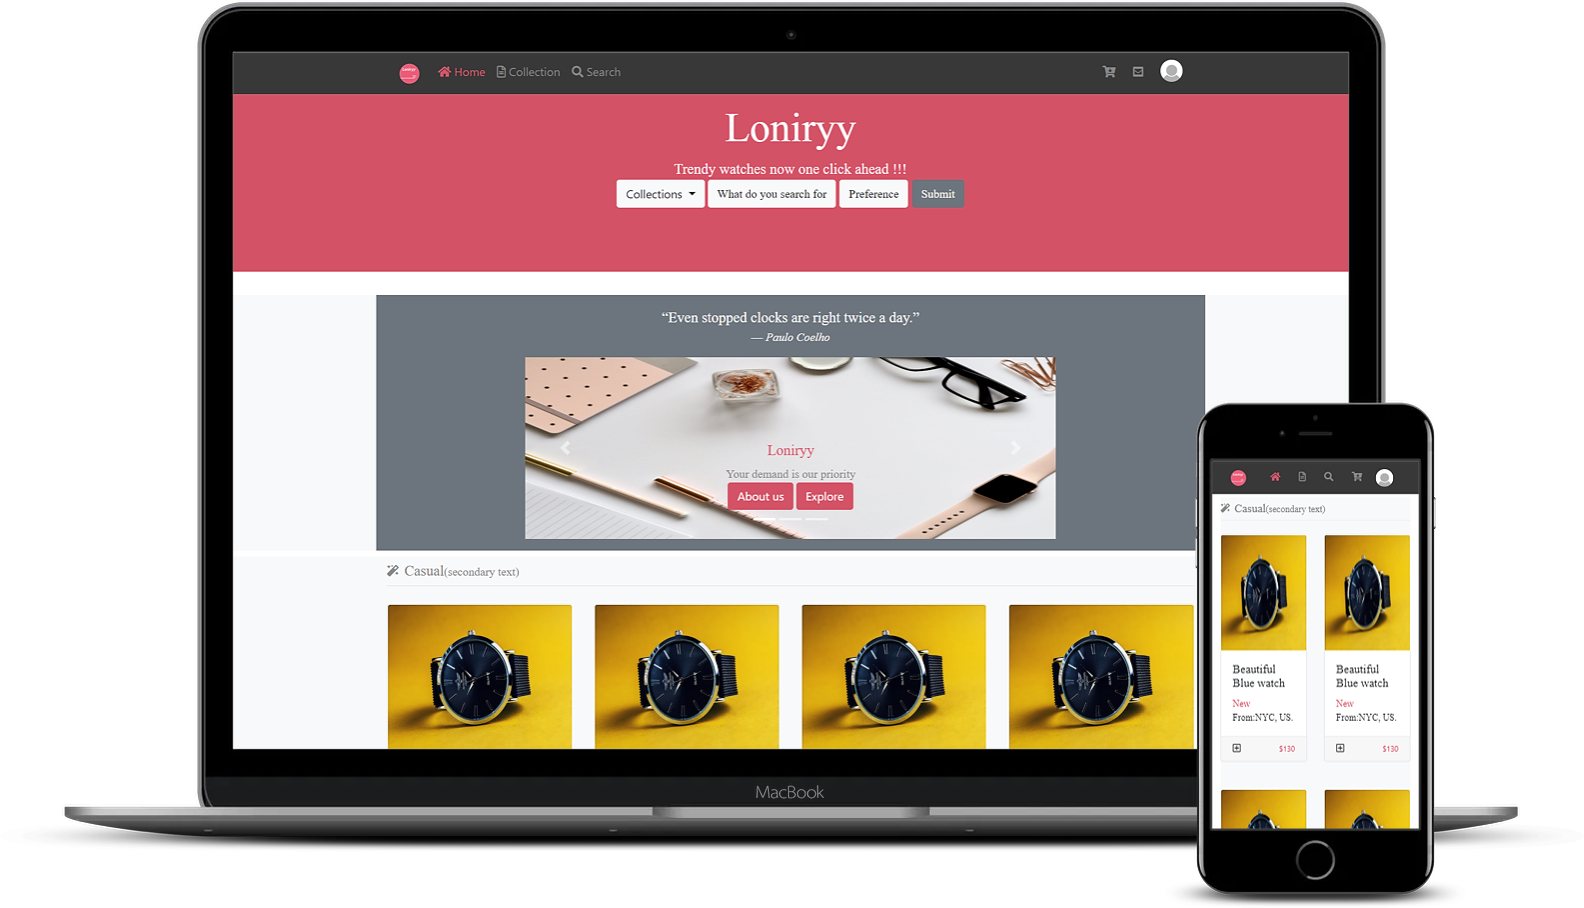
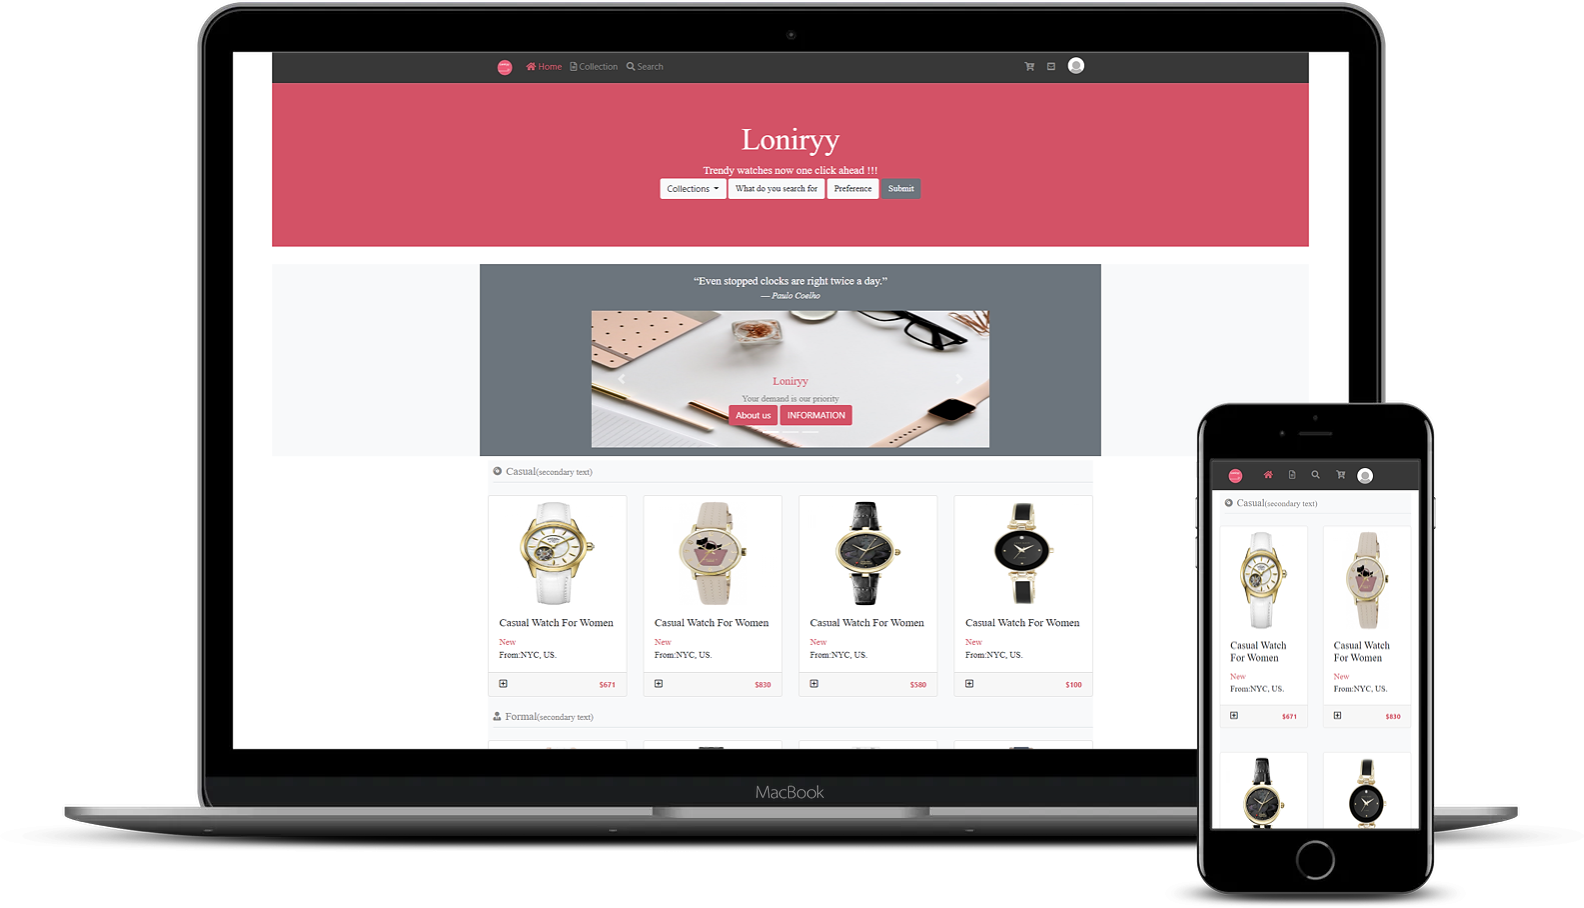
Solved the linters.

Changed region(s): [[0.1237, 0.0617, 0.8971, 0.8326], [0.7734, 0.8326, 0.8971, 0.9251]]

diff --git a/index.html b/index.html
@@ -101,11 +101,11 @@
               
     </header>
 
-    <man>         
+    <main>         
         <section id="invisible" class="navbar navbar-expand navbar-expand-sm  col-12 pt-5 ">         
         </section>
 
-        <section id="show-case" class="d-none d-sm-block ">       
+        <section id="show-case" class="d-none d-sm-block">       
             <div class=" jumbotron jumbotron-fluid text-white">
                     <div class="container text-center p-2">
                         <article>                            
@@ -211,7 +211,7 @@
                             <div class="card my-4 transition">
                                 <img class="card-img-top" src="assets/img/Casual-1.jpg" alt="Card image cap">
                                 <div class="card-body">
-                                    <h5 class="card-title">Rotary watch LS90513</h5>
+                                    <h5 class="card-title">Casual Watch For Women</h5>
                                     <p class="card-text pink-text">New</p>
                                     <p class="card-text text-grey">From:NYC, US.</p>
                                 </div>
@@ -225,7 +225,7 @@
                                 <div class="card my-4 transition">
                                     <img class="card-img-top" src="assets/img/Casual-2.jpg" alt="Card image cap">
                                     <div class="card-body">
-                                        <h5 class="card-title">Radley Border watch RY2288</h5>
+                                        <h5 class="card-title">Casual Watch For Women</h5>
                                         <p class="card-text pink-text">New</p>
                                         <p class="card-text text-grey">From:NYC, US.</p>
                                     </div>
@@ -239,7 +239,7 @@
                                 <div class="card my-4 transition">
                                     <img class="card-img-top" src="assets/img/Casual-3.jpg" alt="Card image cap">
                                     <div class="card-body">
-                                        <h5 class="card-title">Tissot Black T0064073605300</h5>
+                                        <h5 class="card-title">Casual Watch For Women</h5>
                                         <p class="card-text pink-text">New</p>
                                         <p class="card-text text-grey">From:NYC, US.</p>
                                     </div>
@@ -253,7 +253,7 @@
                                 <div class="card my-4 transition">
                                     <img class="card-img-top" src="assets/img/Casual-4.jpg" alt="Card image cap">
                                     <div class="card-body">
-                                        <h5 class="card-title">Anne Klein watch AK / 1980BKGB</h5>
+                                        <h5 class="card-title">Casual Watch For Women</h5>
                                         <p class="card-text pink-text">New</p>
                                         <p class="card-text text-grey">From:NYC, US.</p>
                                     </div>
@@ -276,7 +276,7 @@
                             <div class="card my-4 transition">
                                 <img class="card-img-top" src="assets/img/Formal-1.jpg" alt="Card image cap">
                                 <div class="card-body">
-                                    <h5 class="card-title">Anne Klein Watch AK / N1610WTRG</h5>
+                                    <h5 class="card-title">Formal Watch For Women</h5>
                                     <p class="card-text pink-text">New</p>
                                     <p class="card-text text-grey">From:NYC, US.</p>
                                 </div>
@@ -290,7 +290,7 @@
                                 <div class="card my-4 transition">
                                     <img class="card-img-top" src="assets/img/Formal-2.jpg" alt="Card image cap">
                                     <div class="card-body">
-                                        <h5 class="card-title">Anne Klein AK / N3344NVRG</h5>
+                                        <h5 class="card-title">Formal Watch For Women</h5>
                                         <p class="card-text pink-text">New</p>
                                         <p class="card-text text-grey">From:NYC, US.</p>
                                     </div>
@@ -304,7 +304,7 @@
                                 <div class="card my-4 transition">
                                     <img class="card-img-top" src="assets/img/Formal-3.jpg" alt="Card image cap">
                                     <div class="card-body">
-                                        <h5 class="card-title">Gc watch AK / Y65001L1MF</h5>
+                                        <h5 class="card-title">Formal Watch For Women</h5>
                                         <p class="card-text pink-text">New</p>
                                         <p class="card-text text-grey">From:NYC, US.</p>
                                     </div>
@@ -318,7 +318,7 @@
                                 <div class="card my-4 transition">
                                     <img class="card-img-top" src="assets/img/Formal-4.jpg" alt="Card image cap">
                                     <div class="card-body">
-                                        <h5 class="card-title">Anne Klein AK / 3612BKRG</h5>
+                                        <h5 class="card-title">Formal Watch For Women</h5>
                                         <p class="card-text pink-text">New</p>
                                         <p class="card-text text-grey">From:NYC, US.</p>
                                     </div>
@@ -341,7 +341,7 @@
                             <div class="card my-4 transition">
                                 <img class="card-img-top" src="assets/img/Trendy-1.jpg" alt="Card image cap">
                                 <div class="card-body">
-                                    <h5 class="card-title">Olivia Burton Rose OBGSET140</h5>
+                                    <h5 class="card-title">Trendy Watch For Women</h5>
                                     <p class="card-text pink-text">New</p>
                                     <p class="card-text text-grey">From:NYC, US.</p>
                                 </div>
@@ -355,7 +355,7 @@
                                 <div class="card my-4 transition">
                                     <img class="card-img-top" src="assets/img/Trendy-2.jpg" alt="Card image cap">
                                     <div class="card-body">
-                                        <h5 class="card-title">Gucci G-Timeless Black YA1264034</h5>
+                                        <h5 class="card-title">Trendy Watch For Women</h5>
                                         <p class="card-text pink-text">New</p>
                                         <p class="card-text text-grey">From:NYC, US.</p>
                                     </div>
@@ -369,7 +369,7 @@
                                 <div class="card my-4 transition">
                                     <img class="card-img-top" src="assets/img/Trendy-3.jpg" alt="Card image cap">
                                     <div class="card-body">
-                                        <h5 class="card-title">Anne Klein Rose AK / N2854RGST</h5>
+                                        <h5 class="card-title">Trendy Watch For Women</h5>
                                         <p class="card-text pink-text">New</p>
                                         <p class="card-text text-grey">From:NYC, US.</p>
                                     </div>
@@ -383,7 +383,7 @@
                                 <div class="card my-4 transition">
                                     <img class="card-img-top" src="assets/img/Trendy-4.jpg" alt="Card image cap">
                                     <div class="card-body">
-                                        <h5 class="card-title">Juicy Couture Rose JC / 1116MPRT</h5>
+                                        <h5 class="card-title">Trendy Watch For Women</h5>
                                         <p class="card-text pink-text">New</p>
                                         <p class="card-text text-grey">From:NYC, US.</p>
                                     </div>
@@ -398,7 +398,7 @@
                 </div>
             </div>     
         </section>   
-    </man>
+    </main>
 
     <footer class="mt-3 pl-3 gray-text bg-dark">
         <div class="container">
@@ -470,8 +470,7 @@
                         <i class="fab fa-tumblr "></i>
                         <i class="fab fa-linkedin-in "></i>
                     </li>
-                <ul>
-               
+                </ul>               
             </div>
         </div>
         

diff --git a/assets/styles/styles.scss b/assets/styles/styles.scss
@@ -3,7 +3,7 @@
 @import './searchpage';
 
 .pink-text {
-  color: $color-pink;  
+  color: $color-pink;
 }
 
 .gray-text {
@@ -32,7 +32,7 @@ body {
   h3,
   h4,
   h5 {
-    font-family: helvetica-neue-bold, serif;    
+    font-family: helvetica-neue-bold, serif;
   }
 
   span {
@@ -124,7 +124,6 @@ footer {
     justify-content: space-around;
   }
 
-  
   @media screen and (max-width: 768px) {
     .display-responsive {
       display: none;
@@ -132,19 +131,15 @@ footer {
 
     .footer-logo {
       height: 40px;
-      margin : 20px 10px 10px 0;      
+      margin: 20px 10px 10px 0;
     }
-    
+
     .footer-header {
       padding-top: 20px;
     }
 
-    .footer-bottom {    
+    .footer-bottom {
       font-size: 8px;
     }
   }
-  
 }
-
-
-

diff --git a/search.html b/search.html
@@ -515,7 +515,7 @@
                             <i class="fab fa-tumblr "></i>
                             <i class="fab fa-linkedin-in "></i>
                         </li>
-                    <ul>
+                    </ul>
                    
                 </div>
             </div>
